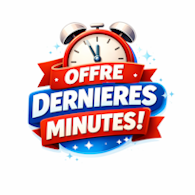
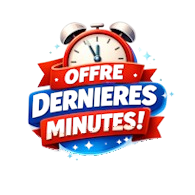
Nouvelle mise à jour

diff --git a/resources/views/welcome.blade.php b/resources/views/welcome.blade.php
@@ -425,6 +425,13 @@ document.addEventListener('DOMContentLoaded', function() {
             max-width: 90vw !important;
             padding: 40px 35px !important;
             display: block !important;
+            left: auto !important;
+            right: 0 !important;
+            transform: translateX(0) translateY(15px) !important;
+        }
+        
+        .mega-menu-container:hover .mega-menu-favoris {
+            transform: translateX(0) translateY(10px) !important;
         }
         
         .mega-menu-favoris h5 {
@@ -572,10 +579,39 @@ document.addEventListener('DOMContentLoaded', function() {
             z-index: 2;
         }
         
+        /* Bande publicitaire en haut du header */
+        .header-ad-banner {
+            background: linear-gradient(135deg, #ff6b6b 0%, #ee5a6f 50%, #ff6b6b 100%);
+            color: white;
+            text-align: center;
+            padding: 8px 20px;
+            font-weight: 600;
+            font-size: 0.9rem;
+            position: relative;
+            overflow: hidden;
+            z-index: 999;
+        }
+        
+        .header-ad-banner::before {
+            content: '';
+            position: absolute;
+            top: 0;
+            left: -100%;
+            width: 100%;
+            height: 100%;
+            background: linear-gradient(90deg, transparent, rgba(255,255,255,0.3), transparent);
+            animation: shimmer 3s infinite;
+        }
+        
+        @keyframes shimmer {
+            0% { left: -100%; }
+            100% { left: 100%; }
+        }
+        
         /* Styles pour le nouveau header avec bande défilante */
         .info-header {
             background: linear-gradient(90deg, #1a3a5f 0%, #2c5282 50%, #1a3a5f 100%);
-            padding: 12px 0;
+            padding: 6px 0;
             color: white;
             position: relative;
             overflow: visible;
@@ -593,7 +629,7 @@ document.addEventListener('DOMContentLoaded', function() {
             display: flex;
             justify-content: space-between;
             align-items: center;
-            padding: 15px 0;
+            padding: 6px 0;
             gap: 20px;
             max-width: 100%;
             margin: 0 auto;
@@ -602,14 +638,29 @@ document.addEventListener('DOMContentLoaded', function() {
         /* Barre de 6 boutons rectangulaires de navigation */
         .header-icons-bar {
             display: flex;
-            justify-content: center;
+            justify-content: flex-start;
             align-items: center;
             gap: 15px;
-            flex-wrap: wrap;
+            flex-wrap: nowrap;
+            overflow-x: auto;
+            overflow-y: hidden;
+            scroll-behavior: smooth;
+            -webkit-overflow-scrolling: touch;
+            scrollbar-width: none;
+        }
+        
+        .header-icons-bar::-webkit-scrollbar {
+            display: none;
         }
         
         .header-icon-container {
             position: relative;
+        }
+        
+        .header-icon-container:hover .header-mega-menu {
+            opacity: 1 !important;
+            visibility: visible !important;
+            transform: translateX(-50%) translateY(0) !important;
         }
         
         .header-icon-link {
@@ -619,26 +670,41 @@ document.addEventListener('DOMContentLoaded', function() {
             gap: 10px;
             text-decoration: none;
             color: white;
-            background: rgba(255, 255, 255, 0.1);
-            border: 2px solid rgba(255, 255, 255, 0.3);
-            border-radius: 8px;
+            background: transparent;
             padding: 8px 15px;
             transition: all 0.3s ease;
-            backdrop-filter: blur(10px);
         }
         
         .header-icon-link:hover {
-            background: rgba(255, 255, 255, 0.2);
-            border-color: rgba(255, 255, 255, 0.5);
             transform: translateY(-2px);
-            box-shadow: 0 6px 20px rgba(0, 0, 0, 0.3);
         }
         
         .icon-image {
-            width: 35px;
-            height: 35px;
+            width: 50px;
+            height: 50px;
             object-fit: contain;
             flex-shrink: 0;
+        }
+        
+        /* Icône Info plus grosse à gauche avec animation flash */
+        .icon-image-info {
+            width: 70px !important;
+            height: 70px !important;
+            order: -1;
+            animation: flash-info 2s infinite;
+        }
+        
+        @keyframes flash-info {
+            0%, 50%, 100% {
+                opacity: 1;
+            }
+            25%, 75% {
+                opacity: 0.4;
+            }
+        }
+        
+        .header-icon-link-info {
+            order: -1;
         }
         
         .icon-label {
@@ -653,9 +719,9 @@ document.addEventListener('DOMContentLoaded', function() {
         /* Mega Menu Header - Layout Professionnel avec Scroll */
         .header-mega-menu {
             position: fixed;
-            top: 120px;
+            top: 80px;
             left: 50%;
-            transform: translateX(-50%);
+            transform: translateX(-50%) translateY(15px);
             width: 1400px;
             max-width: 95vw;
             max-height: 600px;
@@ -1607,16 +1673,23 @@ document.addEventListener('DOMContentLoaded', function() {
         <i class="fas fa-arrow-up"></i>
     </button>
 
+    <!-- Bande publicitaire en haut du header -->
+    <div class="header-ad-banner">
+        <i class="fas fa-star me-2"></i>
+        <strong>OFFRE SPÉCIALE :</strong> Profitez de -30% sur tous nos forfaits voyage jusqu'au 31 mars !
+        <i class="fas fa-star ms-2"></i>
+    </div>
+
     <!-- Header avec infos et navigation -->
     <header class="info-header" id="myScrollableContainer">
         <div class="container">
             <div class="header-content-wrapper">
                 <!-- Barre de 5 icônes de navigation -->
                 <div class="header-icons-bar" style="flex-shrink: 0;">
-                <!-- Bouton 1: Info avec Mega Menu -->
+                <!-- Bouton 1: Info avec Mega Menu - Icône à gauche avec animation flash -->
                 <div class="header-icon-container mega-menu-trigger">
-                    <a href="#" class="header-icon-link" id="infoIconBtn">
-                        <img src="https://cdn-icons-png.flaticon.com/512/471/471662.png" alt="Info" class="icon-image">
+                    <a href="#" class="header-icon-link header-icon-link-info" id="infoIconBtn">
+                        <img src="{{asset('header_info/info.png')}}" alt="Info" class="icon-image icon-image-info">
                         <span class="icon-label">Info</span>
                     </a>
                     
@@ -1911,8 +1984,8 @@ document.addEventListener('DOMContentLoaded', function() {
                 <!-- Bouton 6: Qualité Véridique -->
                 <div class="header-icon-container">
                     <a href="{{url('/landing/qualite')}}" class="header-icon-link">
-                        <img src="{{asset('header_info/GO-EXPLORIA-QUALITE-VERIDIQUE.png')}}" alt="Qualité" class="icon-image">
-                        <span class="icon-label">Qualité</span>
+                        <img src="{{asset('header_info/STATIONS-AVENTURE-QUEBEC.png')}}" alt="Qualité" class="icon-image">
+                        <span class="icon-label">Stations aventure quebec</span>
                     </a>
                 </div>
             </div>
@@ -2109,28 +2182,15 @@ document.addEventListener('DOMContentLoaded', function() {
                 <div class="item-btns">
                     
                     <!-- NOUVEAUX MENUS -->
-                    <!-- NOS VALEURS/FAQ/GO NEXT LEVEL - Lien direct vers Espace Entreprise -->
-                    <a href="{{url('/espace-entreprise')}}" class="btn btn-sm btn-primary me-2">
-                        <i class="fas fa-rocket me-1"></i>NOS VALEURS/FAQ/GO NEXT LEVEL
+                    <!-- NOS VALEURS/FAQ -->
+                    <a href="{{url('/espace-entreprise')}}" class="btn btn-sm btn-info me-2">
+                        <i class="fas fa-info-circle me-1"></i>NOS VALEURS/FAQ
                     </a>
                     
-                    <!-- DEVISES -->
-                    <div class="mega-menu-container">
-                        <button class="btn btn-sm btn-outline-secondary me-2" id="devisesBtn">
-                            <i class="fas fa-dollar-sign me-1"></i>Devises
-                        </button>
-                        <div class="mega-menu mega-menu-devises" id="devisesMegaMenu">
-                            <a href="#" class="mega-menu-link-simple" data-devise="EUR">
-                                <i class="fas fa-euro-sign me-2"></i>EURO (EUR)
-                            </a>
-                            <a href="#" class="mega-menu-link-simple" data-devise="CAD">
-                                <i class="fas fa-dollar-sign me-2"></i>CANADIEN (CAD)
-                            </a>
-                            <a href="#" class="mega-menu-link-simple" data-devise="USD">
-                                <i class="fas fa-dollar-sign me-2"></i>USA (USD)
-                            </a>
-                        </div>
-                    </div>
+                    <!-- GO NEXT LEVEL - Séparé avec couleur différente -->
+                    <a href="{{url('/espace-entreprise')}}" class="btn btn-sm btn-warning me-2">
+                        <i class="fas fa-rocket me-1"></i>GO NEXT LEVEL
+                    </a>
                     
                     <!-- S'INSCRIRE avec mega menu -->
                     <div class="mega-menu-container">
@@ -2199,24 +2259,56 @@ document.addEventListener('DOMContentLoaded', function() {
                         <span>Mon compte</span>
                     </a>
                     
-                    <!-- LANGUE avec mega menu -->
+                    <!-- LANGUE avec mega menu - Toutes les langues du monde -->
                     <div class="mega-menu-container">
                         <button class="btn btn-sm btn-outline-info me-2" id="langueBtn">
                             <i class="fas fa-globe me-1"></i>LANGUE
                         </button>
-                        <div class="mega-menu mega-menu-langue" id="langueMegaMenu" style="min-width: 400px; padding: 30px;">
-                            <div style="text-align: center;">
-                                <i class="fas fa-globe-americas" style="font-size: 48px; color: #3498db; margin-bottom: 20px;"></i>
-                                <h4 style="color: #2c3e50; margin-bottom: 15px;">Développement Marché International</h4>
-                                <p style="color: #7f8c8d; font-size: 1rem; line-height: 1.6;">
-                                    Nous travaillons actuellement sur l'expansion de nos services à l'échelle internationale. 
-                                    Bientôt disponible en plusieurs langues pour mieux vous servir partout dans le monde.
-                                </p>
-                                <div style="margin-top: 20px; padding: 15px; background: #ecf0f1; border-radius: 8px;">
-                                    <p style="margin: 0; color: #34495e; font-weight: 600;">
-                                        <i class="fas fa-info-circle me-2"></i>Langues à venir : Anglais, Espagnol, Allemand, Chinois
-                                    </p>
-                                </div>
+                        <div class="mega-menu mega-menu-langue" id="langueMegaMenu" style="min-width: 600px; max-height: 500px; overflow-y: auto; padding: 20px;">
+                            <div style="display: grid; grid-template-columns: repeat(2, 1fr); gap: 8px;">
+                                <a href="#" class="mega-menu-link-simple" data-langue="fr"><span style="font-size: 1.2rem; margin-right: 8px;">🇫🇷</span>Français</a>
+                                <a href="#" class="mega-menu-link-simple" data-langue="en"><span style="font-size: 1.2rem; margin-right: 8px;">🇬🇧</span>English</a>
+                                <a href="#" class="mega-menu-link-simple" data-langue="es"><span style="font-size: 1.2rem; margin-right: 8px;">🇪🇸</span>Español</a>
+                                <a href="#" class="mega-menu-link-simple" data-langue="de"><span style="font-size: 1.2rem; margin-right: 8px;">🇩🇪</span>Deutsch</a>
+                                <a href="#" class="mega-menu-link-simple" data-langue="it"><span style="font-size: 1.2rem; margin-right: 8px;">🇮🇹</span>Italiano</a>
+                                <a href="#" class="mega-menu-link-simple" data-langue="pt"><span style="font-size: 1.2rem; margin-right: 8px;">🇵🇹</span>Português</a>
+                                <a href="#" class="mega-menu-link-simple" data-langue="nl"><span style="font-size: 1.2rem; margin-right: 8px;">🇳🇱</span>Nederlands</a>
+                                <a href="#" class="mega-menu-link-simple" data-langue="ru"><span style="font-size: 1.2rem; margin-right: 8px;">🇷🇺</span>Русский</a>
+                                <a href="#" class="mega-menu-link-simple" data-langue="zh"><span style="font-size: 1.2rem; margin-right: 8px;">🇨🇳</span>中文</a>
+                                <a href="#" class="mega-menu-link-simple" data-langue="ja"><span style="font-size: 1.2rem; margin-right: 8px;">🇯🇵</span>日本語</a>
+                                <a href="#" class="mega-menu-link-simple" data-langue="ko"><span style="font-size: 1.2rem; margin-right: 8px;">🇰🇷</span>한국어</a>
+                                <a href="#" class="mega-menu-link-simple" data-langue="ar"><span style="font-size: 1.2rem; margin-right: 8px;">🇸🇦</span>العربية</a>
+                                <a href="#" class="mega-menu-link-simple" data-langue="hi"><span style="font-size: 1.2rem; margin-right: 8px;">🇮🇳</span>हिन्दी</a>
+                                <a href="#" class="mega-menu-link-simple" data-langue="tr"><span style="font-size: 1.2rem; margin-right: 8px;">🇹🇷</span>Türkçe</a>
+                                <a href="#" class="mega-menu-link-simple" data-langue="pl"><span style="font-size: 1.2rem; margin-right: 8px;">🇵🇱</span>Polski</a>
+                                <a href="#" class="mega-menu-link-simple" data-langue="sv"><span style="font-size: 1.2rem; margin-right: 8px;">🇸🇪</span>Svenska</a>
+                                <a href="#" class="mega-menu-link-simple" data-langue="no"><span style="font-size: 1.2rem; margin-right: 8px;">🇳🇴</span>Norsk</a>
+                                <a href="#" class="mega-menu-link-simple" data-langue="da"><span style="font-size: 1.2rem; margin-right: 8px;">🇩🇰</span>Dansk</a>
+                                <a href="#" class="mega-menu-link-simple" data-langue="fi"><span style="font-size: 1.2rem; margin-right: 8px;">🇫🇮</span>Suomi</a>
+                                <a href="#" class="mega-menu-link-simple" data-langue="cs"><span style="font-size: 1.2rem; margin-right: 8px;">🇨🇿</span>Čeština</a>
+                                <a href="#" class="mega-menu-link-simple" data-langue="el"><span style="font-size: 1.2rem; margin-right: 8px;">🇬🇷</span>Ελληνικά</a>
+                                <a href="#" class="mega-menu-link-simple" data-langue="he"><span style="font-size: 1.2rem; margin-right: 8px;">🇮🇱</span>עברית</a>
+                                <a href="#" class="mega-menu-link-simple" data-langue="th"><span style="font-size: 1.2rem; margin-right: 8px;">🇹🇭</span>ไทย</a>
+                                <a href="#" class="mega-menu-link-simple" data-langue="vi"><span style="font-size: 1.2rem; margin-right: 8px;">🇻🇳</span>Tiếng Việt</a>
+                                <a href="#" class="mega-menu-link-simple" data-langue="id"><span style="font-size: 1.2rem; margin-right: 8px;">🇮🇩</span>Bahasa Indonesia</a>
+                                <a href="#" class="mega-menu-link-simple" data-langue="ms"><span style="font-size: 1.2rem; margin-right: 8px;">🇲🇾</span>Bahasa Melayu</a>
+                                <a href="#" class="mega-menu-link-simple" data-langue="tl"><span style="font-size: 1.2rem; margin-right: 8px;">🇵🇭</span>Tagalog</a>
+                                <a href="#" class="mega-menu-link-simple" data-langue="uk"><span style="font-size: 1.2rem; margin-right: 8px;">🇺🇦</span>Українська</a>
+                                <a href="#" class="mega-menu-link-simple" data-langue="ro"><span style="font-size: 1.2rem; margin-right: 8px;">🇷🇴</span>Română</a>
+                                <a href="#" class="mega-menu-link-simple" data-langue="hu"><span style="font-size: 1.2rem; margin-right: 8px;">🇭🇺</span>Magyar</a>
+                                <a href="#" class="mega-menu-link-simple" data-langue="bg"><span style="font-size: 1.2rem; margin-right: 8px;">🇧🇬</span>Български</a>
+                                <a href="#" class="mega-menu-link-simple" data-langue="hr"><span style="font-size: 1.2rem; margin-right: 8px;">🇭🇷</span>Hrvatski</a>
+                                <a href="#" class="mega-menu-link-simple" data-langue="sr"><span style="font-size: 1.2rem; margin-right: 8px;">🇷🇸</span>Српски</a>
+                                <a href="#" class="mega-menu-link-simple" data-langue="sk"><span style="font-size: 1.2rem; margin-right: 8px;">🇸🇰</span>Slovenčina</a>
+                                <a href="#" class="mega-menu-link-simple" data-langue="sl"><span style="font-size: 1.2rem; margin-right: 8px;">🇸🇮</span>Slovenščina</a>
+                                <a href="#" class="mega-menu-link-simple" data-langue="lt"><span style="font-size: 1.2rem; margin-right: 8px;">🇱🇹</span>Lietuvių</a>
+                                <a href="#" class="mega-menu-link-simple" data-langue="lv"><span style="font-size: 1.2rem; margin-right: 8px;">🇱🇻</span>Latviešu</a>
+                                <a href="#" class="mega-menu-link-simple" data-langue="et"><span style="font-size: 1.2rem; margin-right: 8px;">🇪🇪</span>Eesti</a>
+                                <a href="#" class="mega-menu-link-simple" data-langue="fa"><span style="font-size: 1.2rem; margin-right: 8px;">🇮🇷</span>فارسی</a>
+                                <a href="#" class="mega-menu-link-simple" data-langue="ur"><span style="font-size: 1.2rem; margin-right: 8px;">🇵🇰</span>اردو</a>
+                                <a href="#" class="mega-menu-link-simple" data-langue="bn"><span style="font-size: 1.2rem; margin-right: 8px;">🇧🇩</span>বাংলা</a>
+                                <a href="#" class="mega-menu-link-simple" data-langue="sw"><span style="font-size: 1.2rem; margin-right: 8px;">🇰🇪</span>Kiswahili</a>
+                                <a href="#" class="mega-menu-link-simple" data-langue="af"><span style="font-size: 1.2rem; margin-right: 8px;">🇿🇦</span>Afrikaans</a>
                             </div>
                         </div>
                     </div>
@@ -2239,6 +2331,24 @@ document.addEventListener('DOMContentLoaded', function() {
                             </p>
                             <a href="{{url('/landing/explorer')}}" class="btn btn-primary mt-3">
                                 <i class="fas fa-search me-2"></i>Découvrir nos offres
+                            </a>
+                        </div>
+                    </div>
+                    
+                    <!-- DEVISES - Déplacé avant Favoris -->
+                    <div class="mega-menu-container">
+                        <button class="btn btn-sm btn-outline-secondary me-2" id="devisesBtn">
+                            <i class="fas fa-dollar-sign me-1"></i>Devises
+                        </button>
+                        <div class="mega-menu mega-menu-devises" id="devisesMegaMenu">
+                            <a href="#" class="mega-menu-link-simple" data-devise="EUR">
+                                <i class="fas fa-euro-sign me-2"></i>EURO (EUR)
+                            </a>
+                            <a href="#" class="mega-menu-link-simple" data-devise="CAD">
+                                <i class="fas fa-dollar-sign me-2"></i>CANADIEN (CAD)
+                            </a>
+                            <a href="#" class="mega-menu-link-simple" data-devise="USD">
+                                <i class="fas fa-dollar-sign me-2"></i>USA (USD)
                             </a>
                         </div>
                     </div>

diff --git a/resources/views/components/front/navbar.blade.php b/resources/views/components/front/navbar.blade.php
@@ -6,11 +6,11 @@
             <!--Logo avec texte qui change et image map rotative-->
 <div id="logo" style="position: relative; display: flex; align-items: center; gap: 20px; top:10px; z-index: 100;">
     <a href="{{url('/')}}" style="position: relative; display: inline-block;">
-        <img src="logo.png" class="d-block" style="max-width: 150px; height: auto;">
+        <img src="logo.png" class="d-block" style="max-width: 200px; height: auto;">
         <!-- Texte qui change en bas à droite -->
         <div id="logo-text" style="
             position: absolute;
-            top: 20px;
+            top: 40px;
             right: 5px;
             font-weight: bold;
             font-style: italic;
@@ -29,17 +29,17 @@
         <img src="{{ asset('header_info/map2.png') }}" 
              alt="Map" 
              class="rotating-map"
-             style="width: 70px; height: 70px; object-fit: contain; animation: rotate360 3s linear infinite; display: block;">
+             style="width: 70px; height: 70px; object-fit: contain; animation: rotateVertical 3s linear infinite; display: block;">
     </a>
 </div>
 
 <style>
-@keyframes rotate360 {
+@keyframes rotateVertical {
     from {
-        transform: rotate(0deg);
+        transform: rotateY(0deg);
     }
     to {
-        transform: rotate(360deg);
+        transform: rotateY(360deg);
     }
 }
 
